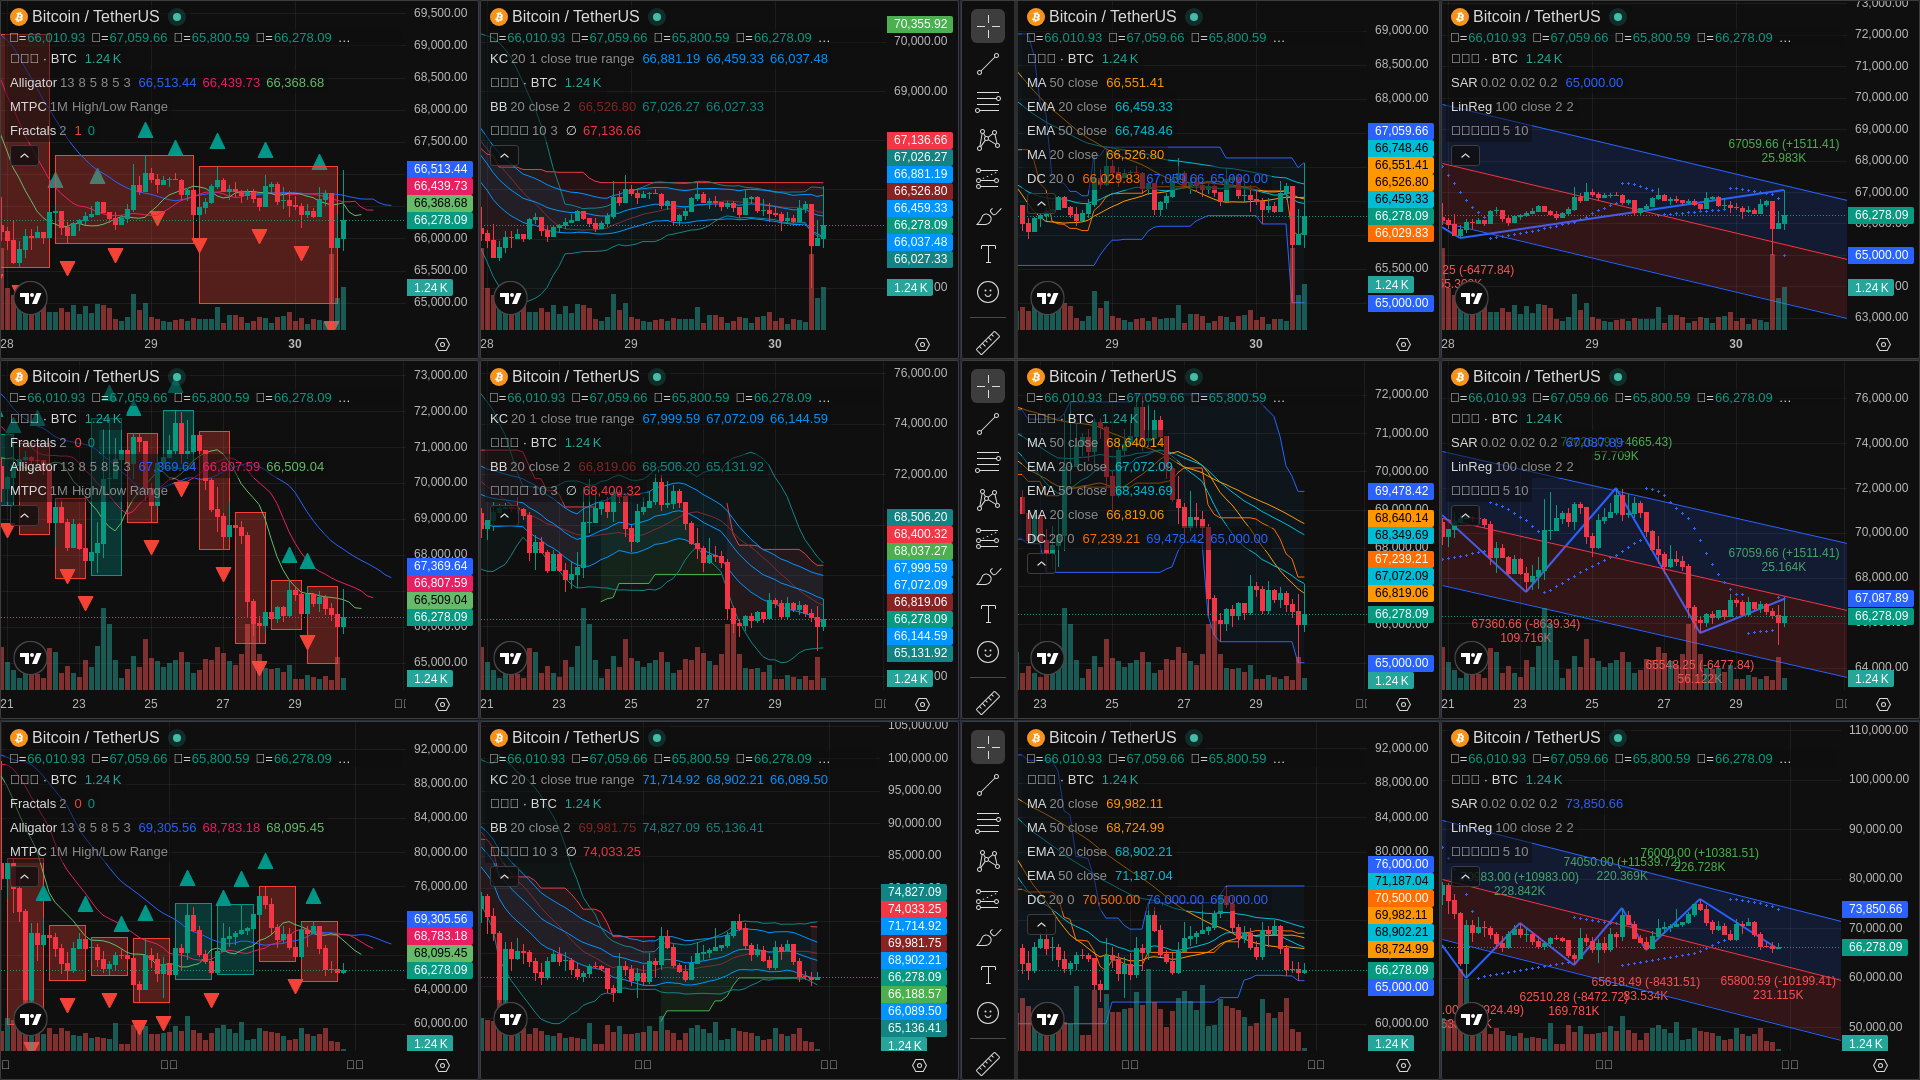
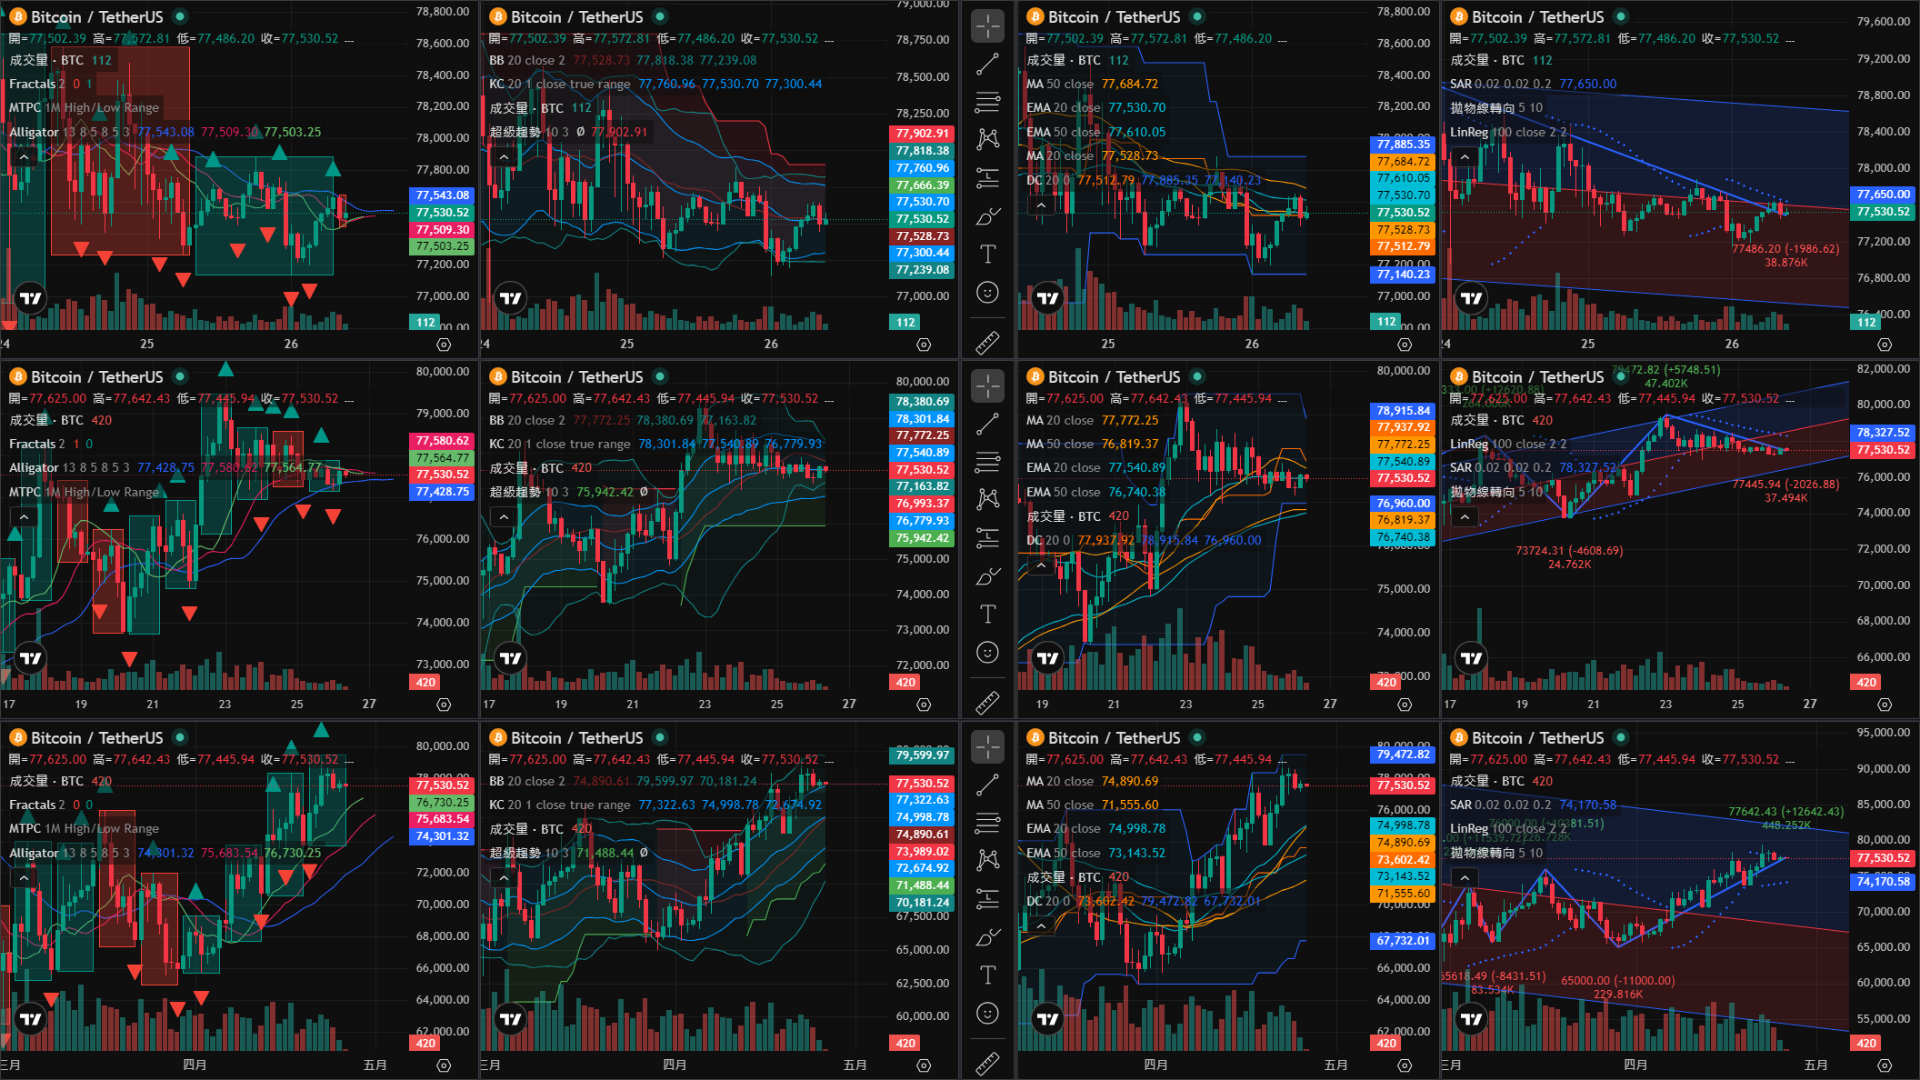
chore: remove automated weekly screenshot GitHub Action

diff --git a/screenshots/index.html b/screenshots/index.html
@@ -96,7 +96,7 @@
             </div>
 
             <div class="text-xs text-gray-500 font-mono hidden sm:block">
-                更新: 2026/3/30 上午8:50:29 (台北時間)
+                更新: 2026/4/26 上午9:51:19 (台北時間)
             </div>
         </div>
         
@@ -152,7 +152,7 @@
         </div>
         
         <div class="text-center mt-2 text-xs text-gray-600 shrink-0">
-            自動更新排程: 每日 8:00 & 21:00 (GMT+8) • <span class="sm:hidden">更新: 2026/3/30 上午8:50:29 (台北時間)</span>
+            自動更新排程: 每日 8:00 & 21:00 (GMT+8) • <span class="sm:hidden">更新: 2026/4/26 上午9:51:19 (台北時間)</span>
         </div>
     </div>
 </body>

diff --git a/README.md b/README.md
@@ -172,8 +172,6 @@ crypto-watch/
 │   ├── rwa.html / sol.html / xrp.html
 │   ├── btc.html / eth.html
 │   └── crypto.js           # m/ 專用長週期指標配置
-├── .github/workflows/
-│   └── weekly-screenshot.yml  # 每週截圖 GitHub Actions
 └── screenshots/            # 截圖輸出目錄
 ```
 
@@ -189,7 +187,7 @@ crypto-watch/
 1. **交易監控**: 實時監控多個幣種的技術指標
 2. **趨勢分析**: 四欄指標組合全面分析市場趨勢
 3. **RWA 追蹤**: 監控白銀、石油、ETF 等實物資產代幣
-4. **報告生成**: 自動截圖功能便於生成每週報告
+4. **報告生成**: 手動執行 `node screenshot.js` 生成截圖報告
 5. **API 整合**: 固定截圖 URL 可嵌入其他應用
 
 